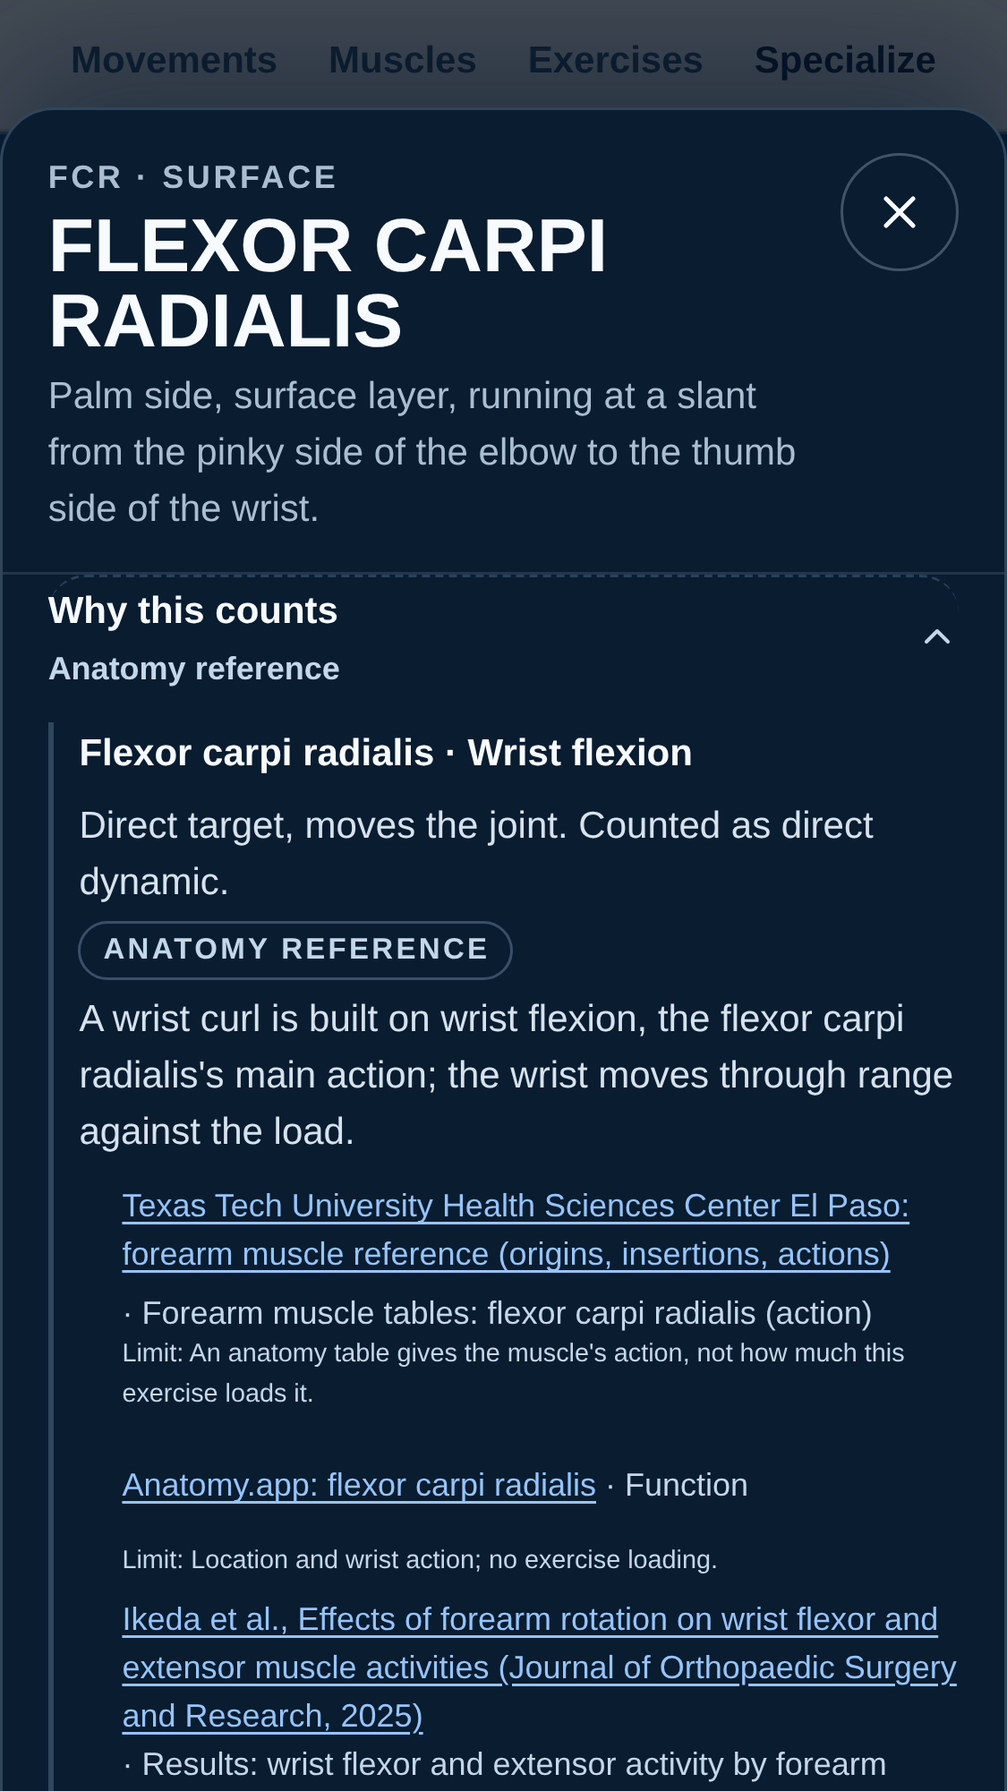
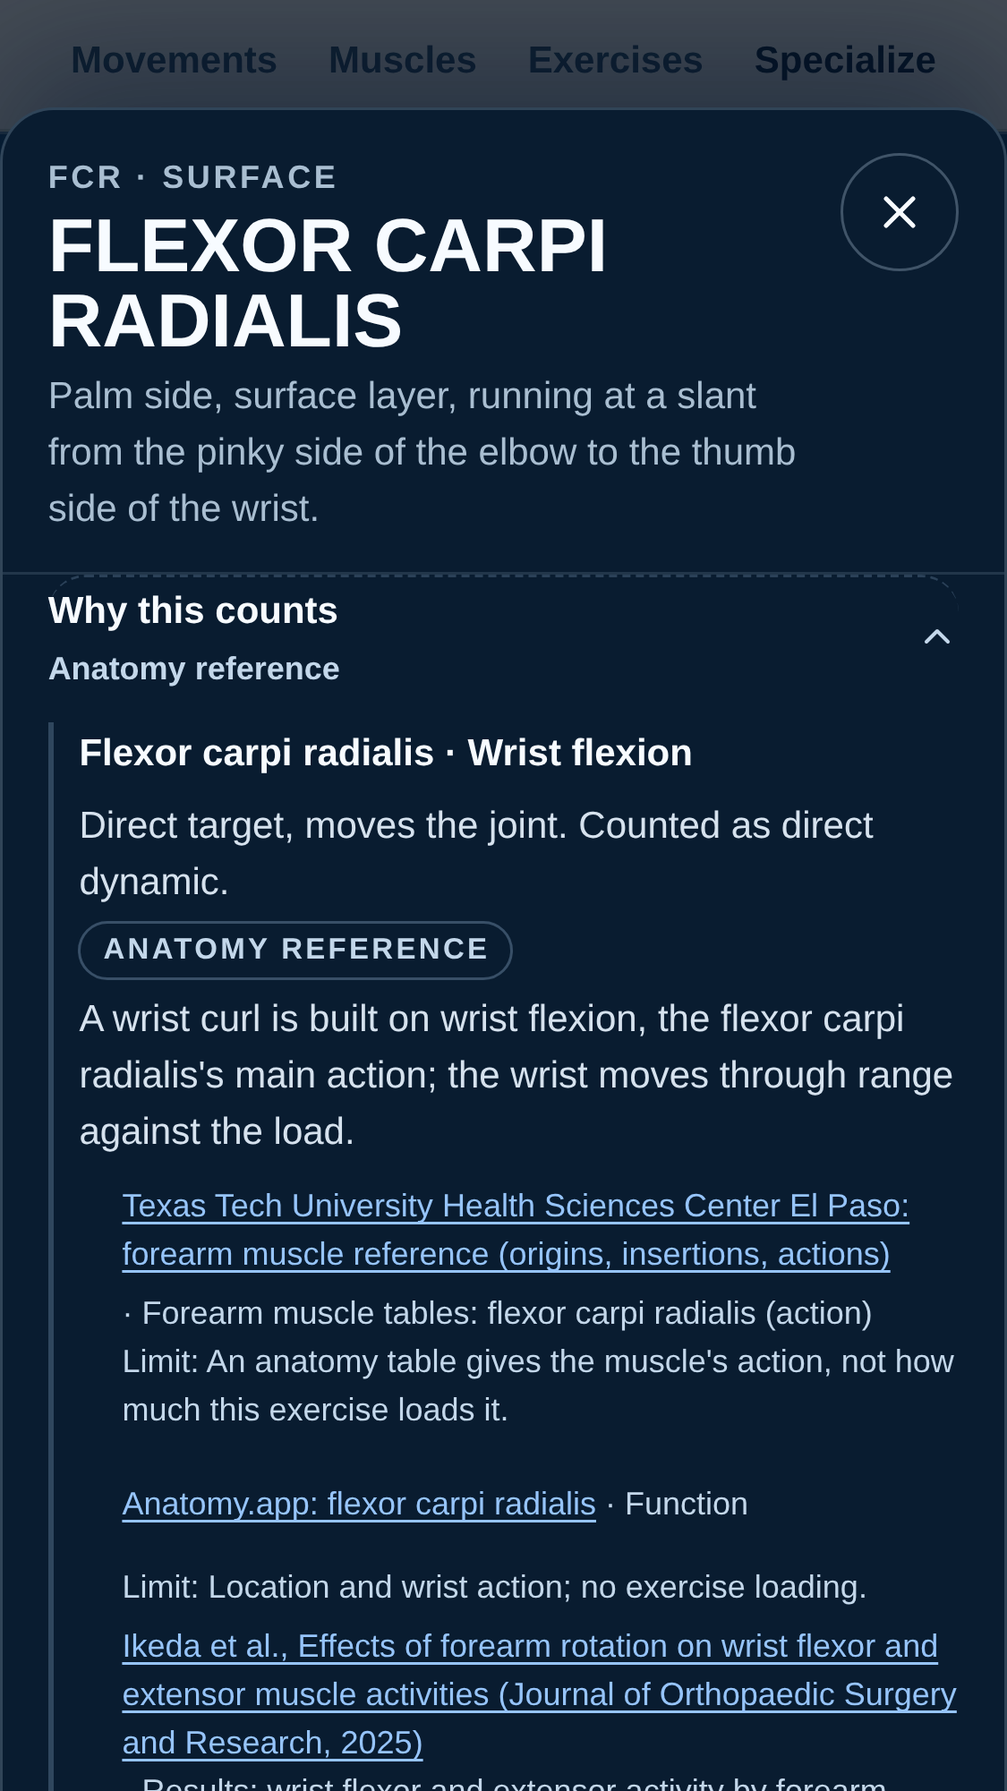
Specialization atlas: review fixes for the Specialize page lane
- The drawing no longer jumps under the finger: the selected-muscle strip
  now sits above the drawing, so a tap that changed the strip's height
  moved the drawing (12 px at 390 and 375, 33 px at 320, headless
  Chromium emulating an iPhone). The page now scrolls by the same amount,
  so the drawing stays put (0 px at all three widths).
- Planned mode while the plan loads: the muscle sheet's target section
  showed each target at "0 of your N". It now waits for the plan, like
  the rest of the page (C10).
- The sets behind a region total no longer say planned sets "loaded" a
  muscle, and no longer read "a forearms muscle".
- A source's limitation in Why this counts kept the browser's <small>
  shrink (about 10 px). It now stays at the small type step.
- 09-page.md records the tap rule and the loading target section; the
  Why this counts screenshots are retaken.

Claude-Session: https://claude.ai/code/session_01FVnPUDYaPCRVKb2WTVKYVF

Changed region(s): [[0.1244, 0.7436, 0.9644, 1.0]]

diff --git a/client/src/components/specialization/SpecializationPanel.tsx b/client/src/components/specialization/SpecializationPanel.tsx
@@ -1,4 +1,4 @@
-import { useEffect, useMemo, useRef, useState } from "react";
+import { useEffect, useLayoutEffect, useMemo, useRef, useState } from "react";
 import { ArrowLeft, ArrowRight, ChevronDown } from "lucide-react";
 import type { Exercise } from "@/lib/exerciseCatalog";
 import type { AthleteEquipmentProfile } from "@/lib/equipmentProfile";
@@ -197,6 +197,28 @@ function SpecializationPage({ data, state, onStateChange, plan, catalog, equipme
     update({ nodeId });
     if (nodeId) setAnnouncement(`${nameOf(nodeId)} selected. ${sentenceFor(nodeId)}`);
   };
+  /**
+   * The strip sits above the drawing, so a tap that changes its height (a longer sentence, a
+   * target line, the region line giving way to a name) would move the drawing under the
+   * finger. The strip's bottom edge is noted before the tap and the page scrolled by however
+   * far it moved, so the drawing stays where it was touched.
+   */
+  const stripRef = useRef<HTMLDivElement>(null);
+  const keepDrawing = useRef<{ nodeId: string | null; bottom: number } | null>(null);
+  const tapDrawing = (id: string) => {
+    const nodeId = id === selected?.id ? null : id;
+    const strip = stripRef.current;
+    keepDrawing.current = strip ? { nodeId, bottom: strip.getBoundingClientRect().bottom } : null;
+    select(nodeId);
+  };
+  useLayoutEffect(() => {
+    const kept = keepDrawing.current;
+    keepDrawing.current = null;
+    const strip = stripRef.current;
+    if (!kept || !strip || kept.nodeId !== (state.nodeId ?? null)) return;
+    const shift = strip.getBoundingClientRect().bottom - kept.bottom;
+    if (Math.abs(shift) >= 1) window.scrollBy({ top: shift, behavior: "instant" });
+  }, [state.nodeId]);
   useEffect(() => {
     if (summary) setAnnouncement(`${interval.label}, ${armWord}: ${summary.regionDistinctBouts} distinct ${regionWord} bouts.`);
     // eslint-disable-next-line react-hooks/exhaustive-deps
@@ -275,17 +297,21 @@ function SpecializationPage({ data, state, onStateChange, plan, catalog, equipme
   const boutSheet = useMemo<null | { eyebrow: string; title: string; intro: string; lists: BoutList[] }>(() => {
     if (sheet?.kind !== "bouts" || !summary) return null;
     const eyebrow = `${data.region.label} · ${armWord}`;
+    // A plan has done nothing yet: its sets are planned for a muscle, not sets that loaded one.
+    const planned = summary.mode === "planned";
     if (sheet.list === "region") {
       const onArm = regionBoutRows(summary, "region");
       if (sheet.exerciseKey) {
         const rows = onArm.filter((row) => exerciseKeyOf(row) === sheet.exerciseKey);
-        return { eyebrow, title: rows[0]?.exerciseName ?? "Sets", intro: `${interval.label}: ${plural(rows.length, "set")} of it loaded a ${regionWord} muscle on the ${armWord}.`, lists: [{ key: "arm", heading: null, note: null, rows }] };
+        return { eyebrow, title: rows[0]?.exerciseName ?? "Sets", intro: planned ? `${interval.label}: ${plural(rows.length, "set")} of it planned for a muscle of the ${regionWord} on the ${armWord}.` : `${interval.label}: ${plural(rows.length, "set")} of it loaded a muscle of the ${regionWord} on the ${armWord}.`, lists: [{ key: "arm", heading: null, note: null, rows }] };
       }
       const unknown = regionBoutRows(summary, "unknown-side");
       return {
         eyebrow,
         title: `${plural(summary.regionDistinctBouts, "distinct bout")}`,
-        intro: `${interval.label}: every set that loaded a ${regionWord} muscle on the ${armWord}, each counted once however many muscles it loaded.`,
+        intro: planned
+          ? `${interval.label}: every set planned for a muscle of the ${regionWord} on the ${armWord}, each counted once however many muscles it is planned for.`
+          : `${interval.label}: every set that loaded a muscle of the ${regionWord} on the ${armWord}, each counted once however many muscles it loaded.`,
         lists: [
           { key: "arm", heading: unknown.length ? `On the ${armWord}` : null, note: null, rows: onArm },
           ...(unknown.length ? [{ key: "unknown", heading: "No arm recorded", note: "Kept apart and counted for neither arm.", rows: unknown }] : []),
@@ -359,7 +385,7 @@ function SpecializationPage({ data, state, onStateChange, plan, catalog, equipme
       </div>}
       {/* The selected muscle sits between the controls and the drawing (brief §6 "Mobile overview"):
           a tap on the drawing changes the words right above it, on the same screen. One action. */}
-      <div className="spz-strip" role="group" aria-label="Selected muscle" data-empty={selected ? undefined : ""}>
+      <div ref={stripRef} className="spz-strip" role="group" aria-label="Selected muscle" data-empty={selected ? undefined : ""}>
         {selected ? <>
           <p className="spz-strip-name"><b>{selected.name}</b><span className="spz-badge">{layerLabels[selected.layer]}</span></p>
           <p className="spz-strip-line">{sentenceFor(selected.id)}</p>
@@ -371,14 +397,14 @@ function SpecializationPage({ data, state, onStateChange, plan, catalog, equipme
             <button type="button" className="spz-link spz-link-box" onClick={() => select(null)}>Clear</button>
           </div>
         </> : <>
-          <p className="spz-strip-line">{summary ? `${plural(summary.regionDistinctBouts, "distinct bout")} touched the ${regionWord} on the ${armWord}${summary.regionUnknownSideBouts ? `, and ${summary.regionUnknownSideBouts} more had no arm recorded` : ""}.` : waiting} Choose a muscle on the drawing or in the list for its numbers.</p>
+          <p className="spz-strip-line">{summary ? `${plural(summary.regionDistinctBouts, "distinct bout")} touched the ${regionWord} on the ${armWord}${summary.regionUnknownSideBouts ? `, and ${summary.regionUnknownSideBouts} more had no arm recorded` : ""}.` : waiting} Choose a muscle {asset ? "on the drawing or " : ""}in the list for its numbers.</p>
           {regionBoutsBehind > 0 && <div className="spz-actions">
             <button type="button" className="spz-link" onClick={() => setSheet({ kind: "bouts", list: "region" })}>See these sets <ArrowRight className="h-4 w-4" aria-hidden="true" /></button>
           </div>}
         </>}
       </div>
       {asset ? <>
-        <SpecializationDiagram asset={asset} view={view} layer={layer} mirrored={state.limb === "left"} fillFor={fillFor} selectedNodeId={selected?.id ?? null} onSelect={(id) => select(id === selected?.id ? null : id)} labelFor={(id) => data.nodes.find((node) => node.id === id)?.shortName ?? id} describeFor={describeFor} caption={`${data.region.label}, ${armWord}, ${viewLabels[view].toLowerCase()} view, ${layerControlLabels[layer].toLowerCase()} layer`} />
+        <SpecializationDiagram asset={asset} view={view} layer={layer} mirrored={state.limb === "left"} fillFor={fillFor} selectedNodeId={selected?.id ?? null} onSelect={tapDrawing} labelFor={(id) => data.nodes.find((node) => node.id === id)?.shortName ?? id} describeFor={describeFor} caption={`${data.region.label}, ${armWord}, ${viewLabels[view].toLowerCase()} view, ${layerControlLabels[layer].toLowerCase()} layer`} />
         <MapLegend map={state.map} />
       </> : <p className="spz-note">The drawing is not ready yet. Every muscle is in the list below, with the same numbers.</p>}
     </section>
@@ -428,7 +454,7 @@ function SpecializationPage({ data, state, onStateChange, plan, catalog, equipme
               {item.catalogExerciseId !== null && <button type="button" className="spz-link" onClick={() => inspect(item.catalogExerciseId, item.name)}>About it</button>}
             </span>
           </li>)}
-        </ul> : <p className="spz-note">No exercise {state.mode === "planned" ? "planned" : "logged"} in this window loads a mapped {regionWord} muscle.</p>}
+        </ul> : <p className="spz-note">No exercise {state.mode === "planned" ? "planned" : "logged"} in this window loads a mapped muscle of the {regionWord}.</p>}
         {overlaps.length > 0 && <div className="spz-subsection">
           <h3>Same muscle, same {state.mode === "planned" ? "day" : "workout"}</h3>
           <ul className="spz-exercise-list">{overlaps.map((item) => <li key={item.key}><span><b>{item.nodeShortName}</b><small>{item.sessionLabel}{item.performedAt ? ` · ${new Date(item.performedAt).toLocaleDateString(undefined, { weekday: "short", day: "numeric", month: "short" })}` : ""}: {item.exercises.join(" and ")} both load it directly.</small></span></li>)}</ul>

diff --git a/client/src/components/specialization/SpecializationPanel.render.test.ts b/client/src/components/specialization/SpecializationPanel.render.test.ts
@@ -204,6 +204,23 @@ describe("the selected muscle, on the same screen as the drawing (brief §6 mobi
     expect(lastState?.nodeId).toBe("forearm.fcr");
   });
 
+  it("keeps the drawing still under the finger when a tap changes the strip's height", async () => {
+    render(createElement(Harness));
+    const strip = within(mapCard()).getByRole("group", { name: "Selected muscle" });
+    const rect = (bottom: number) => ({ top: bottom - 116, bottom, left: 0, right: 320, width: 320, height: 116, x: 0, y: bottom - 116, toJSON: () => ({}) }) as DOMRect;
+    // Before the tap the region line is 116 px tall; the selected muscle's strip is 12 px shorter.
+    vi.spyOn(strip, "getBoundingClientRect").mockImplementationOnce(() => rect(716)).mockImplementation(() => rect(704));
+    const scrollBy = vi.spyOn(window, "scrollBy").mockImplementation(() => {});
+    await act(async () => { fireEvent.click(within(mapCard()).getByRole("button", { name: /^Flexor carpi radialis\. / })); });
+    expect(lastState?.nodeId).toBe("forearm.fcr");
+    expect(scrollBy).toHaveBeenCalledTimes(1);
+    expect(scrollBy).toHaveBeenCalledWith({ top: -12, behavior: "instant" });
+    // A choice from the list opens the sheet and moves nothing.
+    scrollBy.mockClear();
+    await act(async () => { fireEvent.click(row(/^Brachioradialis,/)); });
+    expect(scrollBy).not.toHaveBeenCalled();
+  });
+
   it("with nothing selected, gives the region's count and opens the sets behind it", async () => {
     const onOpenSession = vi.fn();
     render(createElement(Harness, { onOpenSession }));
@@ -211,6 +228,7 @@ describe("the selected muscle, on the same screen as the drawing (brief §6 mobi
     expect(within(strip).getByText(/^3 distinct bouts touched the forearms on the right arm\./)).not.toBeNull();
     await act(async () => { fireEvent.click(within(strip).getByRole("button", { name: /See these sets/ })); });
     const sheet = screen.getByRole("dialog", { name: "3 distinct bouts" });
+    expect(sheet.textContent).toMatch(/every set that loaded a muscle of the forearms on the right arm/);
     expect(within(sheet).getByText("Hammer Curl")).not.toBeNull();
     const open = within(sheet).getAllByRole("button", { name: /Open this workout/ });
     expect(open).toHaveLength(3);
@@ -251,6 +269,16 @@ describe("totals for the whole region open their sets (brief §1)", () => {
     const sheet = screen.getByRole("dialog", { name: "1 set with no arm recorded" });
     expect(within(sheet).getByText("One-Arm Dumbbell Wrist Curl")).not.toBeNull();
     expect(within(sheet).getByText(/Arm not recorded/)).not.toBeNull();
+  });
+
+  it("in planned mode, calls the sets planned rather than done", async () => {
+    render(createElement(Harness, { initial: { mode: "planned" } }));
+    const strip = within(mapCard()).getByRole("group", { name: "Selected muscle" });
+    await act(async () => { fireEvent.click(within(strip).getByRole("button", { name: /See these sets/ })); });
+    const sheet = screen.getByRole("dialog");
+    expect(sheet.textContent).toMatch(/every set planned for a muscle of the forearms on the right arm/);
+    expect(sheet.textContent).not.toMatch(/loaded/);
+    expect(within(sheet).queryAllByRole("button", { name: /Open this workout/ })).toEqual([]);
   });
 
   it("opens one exercise's sets from Exercises in this window", async () => {
@@ -337,6 +365,16 @@ describe("planned mode while the plan loads", () => {
     expect(screen.queryAllByRole("button", { name: /No work for it|No exercise is mapped/ })).toEqual([]);
     const fills = new Set(Array.from(document.querySelectorAll<SVGPathElement>(".spz-diagram-belly")).map((path) => path.dataset.fill));
     expect(Array.from(fills)).toEqual(["none"]);
+  });
+
+  it("shows no target progress in the muscle sheet either, until the plan has loaded", async () => {
+    saveSpecializationGoals([target({})], null);
+    render(createElement(Harness, { initial: { mode: "planned", nodeId: "forearm.br" }, plan: { ready: false } }));
+    await act(async () => { fireEvent.click(within(mapCard()).getByRole("button", { name: /Inspect coverage/ })); });
+    const sheet = screen.getByRole("dialog", { name: "Brachioradialis" });
+    expect(within(sheet).queryByText(/of your 20/)).toBeNull();
+    const targets = within(sheet).getByRole("heading", { name: "Your target" }).closest("section")!;
+    expect(targets.textContent).toMatch(/once your plan has loaded/);
   });
 });
 

diff --git a/client/src/components/specialization/MuscleSheet.tsx b/client/src/components/specialization/MuscleSheet.tsx
@@ -149,7 +149,9 @@ export function MuscleSheet({ data, node, exposure, loading = false, side, mode,
 
     <section className="spz-sheet-section" aria-labelledby="spz-target">
       <h3 id="spz-target">Your target</h3>
-      <TargetsEditor regionId={data.region.id} nodeId={node.id} nodeName={node.name} side={side} goals={goals} progress={progress} timeZone={timeZone} todayKey={todayKey} onSave={onSaveGoals} onRemove={onRemoveGoal} />
+      {/* While the plan loads there is no progress to read, and the editor would show each target at 0. */}
+      {loading ? <p className="spz-note">Your targets and their progress appear once your plan has loaded.</p>
+        : <TargetsEditor regionId={data.region.id} nodeId={node.id} nodeName={node.name} side={side} goals={goals} progress={progress} timeZone={timeZone} todayKey={todayKey} onSave={onSaveGoals} onRemove={onRemoveGoal} />}
     </section>
 
     <section className="spz-sheet-section" aria-labelledby="spz-exercises">

diff --git a/client/src/components/specialization/specialization.css b/client/src/components/specialization/specialization.css
@@ -151,6 +151,8 @@
 .spz-why-line, .spz-why-rationale { color: #d6e2ee; font-size: var(--sg-text-base); line-height: var(--sg-leading-body); }
 .spz-why-basis { display: flex; flex-wrap: wrap; align-items: center; gap: .25rem .5rem; }
 .spz-why-basis small { color: var(--sg-text-muted-on-dark); font-size: var(--sg-text-sm); font-weight: 600; }
+/* A limitation is part of the claim: kept at the small step, not shrunk further by the browser's <small>. */
+.spz-sources small { font-size: var(--sg-text-sm); }
 .spz-why .spz-sources small { display: block; color: var(--sg-text-muted-on-dark); }
 
 .spz-days { display: grid; grid-template-columns: repeat(7, minmax(0, 1fr)); row-gap: .6rem; gap: .3rem; margin-bottom: .6rem; padding: 0; list-style: none; }

diff --git a/docs/specialization-atlas/09-page.md b/docs/specialization-atlas/09-page.md
@@ -40,7 +40,7 @@ An entry point that names where it was pressed gets **Back to <that page>** at t
 
 1. Eyebrow and heading.
 2. Controls in wrapping rows: Completed · Planned and Left arm · Right arm (one row from 375 px), then This week · Rolling 7 days · Custom (two date fields), or the plan weeks in Planned mode. Then the window as words and, for this week, the pair design §4 asks for: this calendar week's logged work beside the plan week **being trained** (`trainingWeekFor`, the rule Home's next workout follows: an explicit choice, else the latest workout's plan week, else Week 1), never the week Plan happens to be showing: "This week · 12–18 Oct · right arm: 7 bouts logged for the forearms · 9 planned in Plan Week 1". In Planned mode on that week: "…: 9 bouts planned for the forearms · 7 logged this week"; on any other plan week there is no pair, and the line says "…: not the week you train from (Week 1), so there is no logged week to compare". The muscle sheet says the same for its muscle. The trained week is also the plan week Planned mode opens on.
-3. Muscle map card: Volume · Target, the view (Palm · Back · Thumb side) and layer (Surface · Middle · Deep, only those the drawing has for that view); then **the selected muscle**, between the controls and the drawing, so a tap on the drawing changes the words right above it: name, layer, one sentence, its targets, and the one action, **Inspect coverage**, or **Add targeted exercise** when it has a reviewed mapping and no work in the window (which opens the add sheet on the best reviewed candidate, or the muscle's exercises when there is none), with Clear. With nothing selected it gives the region's distinct bouts on that arm, and how many more had no arm, with **See these sets**. Then the drawing and its key. The action appears once on the page: there is no second selected-muscle section below the card.
+3. Muscle map card: Volume · Target, the view (Palm · Back · Thumb side) and layer (Surface · Middle · Deep, only those the drawing has for that view); then **the selected muscle**, between the controls and the drawing, so a tap on the drawing changes the words right above it: name, layer, one sentence, its targets, and the one action, **Inspect coverage**, or **Add targeted exercise** when it has a reviewed mapping and no work in the window (which opens the add sheet on the best reviewed candidate, or the muscle's exercises when there is none), with Clear. With nothing selected it gives the region's distinct bouts on that arm, and how many more had no arm, with **See these sets**. Then the drawing and its key. The action appears once on the page: there is no second selected-muscle section below the card. Because the strip sits above the drawing, a tap on the drawing that changes the strip's height (the region line giving way to a name, a longer sentence, a target line) scrolls the page by the same amount, so the drawing stays where it was touched (measured: 0 px of movement at 390, 375 and 320, where it moved 12, 12 and 33 px without this).
 4. Under the card, the counting line ("Each set counts once per muscle and once per arm…").
 5. The muscle list, most direct work first, in three groups (the region's muscles; nearby; upper-arm muscles credited here). Each row: name, abbreviation, a Deep/Middle badge, the non-zero parts in words, and one stacked bar on a fixed scale (full at 20 bouts; more keeps its number). A row opens the muscle sheet.
 6. Coverage to review: three findings, then "Show N more".
@@ -63,7 +63,7 @@ Scrolled so the strip sits just under the sticky tab row (strip 57–161), the s
 - **Every total opens its sets** (brief §1). A muscle's numbers open its ledger (exercise → bout → segment) in the muscle sheet. The region's totals open a sheet of their own (`BoutListSheet`): the distinct bouts behind the strip's count (with the no-arm bouts listed apart), the sets with no arm recorded, the work tagged with the region and mapped to no muscle, and one exercise's bouts from Exercises in this window, each logged bout with **Open this workout**. The calculator keeps those rows (`regionBoutRows`, `regionUnknownSideRows`, `regionUnclassifiedRows` on the summary; `06-calculation.md` §2).
 - **Movements** (brief §7, "Targets attach to muscle or action"). A movement target's group in Targets has **Open**, and its finding opens the same sheet (`MovementSheet`): what the movement is and which of the region's muscles do it (each with Open); its numbers for the window and arm, counted as a movement target counts them (distinct bouts in which a credited mapping for the movement on a region muscle is that kind of work, hold seconds once per bout, no-arm bouts apart); its targets with their progress; the bouts behind the numbers, one row per bout however many muscles moved it, with the kinds of work and the muscles, **Open this workout**, and Why this counts for each exercise; and exercises for the movement (`recommendFor({ target: { actionId } })`) with Add or swap, About it and Not for me. Add or swap opens the add sheet; its preview leads with the region muscle the chosen exercise is credited with for that movement.
 - **Why this counts** (brief §2–§4). Under each exercise in a ledger and each suggestion, closed until opened: for each reviewed mapping behind it, the muscle and movement, the relationship and mode ("Direct target, moves the joint"), what the counting rule makes of it ("Counted as direct dynamic"), what it rests on (Inferred from anatomy, Anatomy reference, Biomechanics, Measured by EMG, Measured in training studies), the written rationale, and each source with where in it and its limit. A closing line says the kind of work is a Sports Genome counting choice and that the sources speak to what a muscle does, not to how much it grows.
-- **Planned mode while the plan loads.** No summary is shown until the plan has loaded: no zeros, no hatching, no target progress and no findings. The drawing is plain, the rows and the strip say "Loading your plan…", and so do the findings, the window's exercises and the sheets.
+- **Planned mode while the plan loads.** No summary is shown until the plan has loaded: no zeros, no hatching, no target progress and no findings. The drawing is plain, the rows and the strip say "Loading your plan…", and so do the findings, the window's exercises and the sheets; the muscle sheet's target section waits too, rather than show each target at 0.
 - **The clock.** The page's `now` is refreshed when the page is looked at again (`visibilitychange`) and passed to every summary, so each target's own period (a rolling 7 days, a calendar week) and whether a target is active follow the clock, not the moment the page was opened.
 - **What is suggested.** Each suggestion has **Not for me**, which leaves that exercise out (with Undo), and the sheet's "What is suggested" lists the equipment among the suggestions as toggles and the exercises left out, each with "Suggest again". Stored on the device under the account's key (`lib/specialization/exclusions.ts`) and passed to the recommender.
 - **Hold time not recorded.** A hold logged before the logger kept seconds reads "time not recorded", not "0 s".
